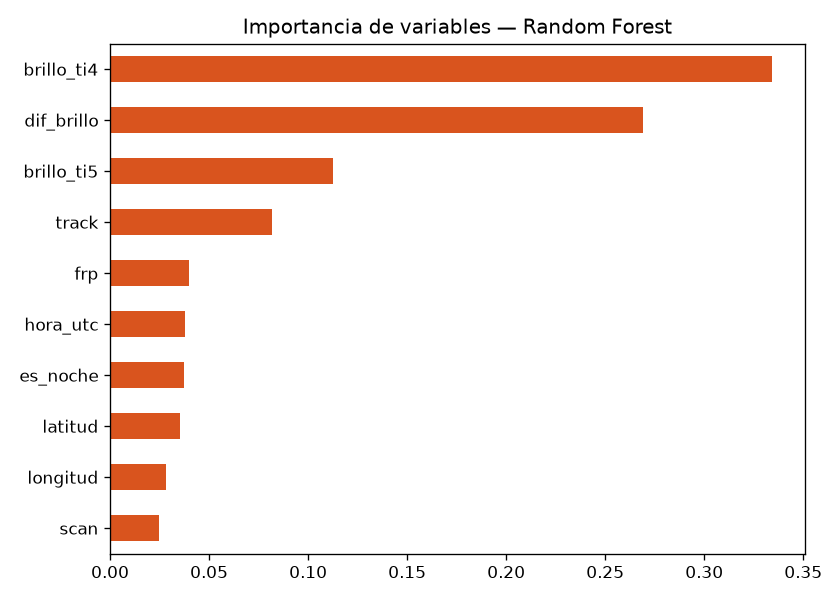
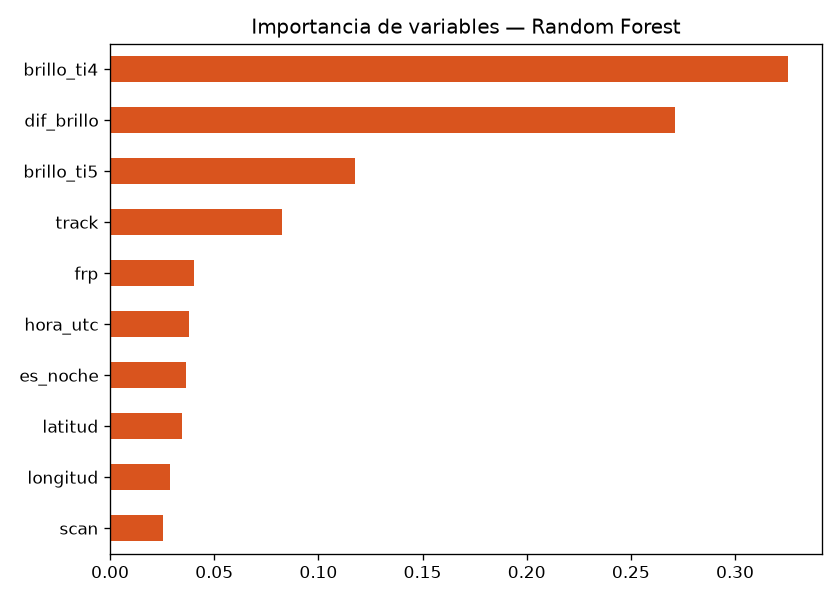
Actualiza métricas y figuras con la última ejecución del DAG

diff --git a/docs/reporte_final.md b/docs/reporte_final.md
@@ -58,7 +58,7 @@ El proyecto tiene dos objetivos:
 | **Gold** | Variables derivadas (`dif_brillo = I4 − I5`, `hora_utc`, `es_noche`, celda de 1° × 1°, `en_region_interes`) y resumen diario por celda (número de detecciones, FRP total, medio y máximo, % de confianza alta). | `src/transform/gold_data.py` |
 | **Almacén** | SQLite con modelo en estrella: `fact_detecciones`, `dim_fecha` y `agg_diario_celda`, con índices por fecha y celda. | `src/load/load_datawarehouse.py` |
 
-**Prueba de idempotencia e integración de fuentes:** el DAG corrió 5 veces. En las 4 primeras (feed público) Bronze acumuló 4 snapshots de 61.689 filas y Silver se mantuvo en **61.689 detecciones únicas**: volver a ejecutar el pipeline no infla los datos. En la quinta se activó la API, que aportó 35.958 filas de los últimos 5 días. Silver pasó a **64.515** detecciones únicas: solo se agregaron las detecciones realmente nuevas (≈ 282 mil filas en Bronze → 64.515 en Silver).
+**Prueba de idempotencia e integración de fuentes:** el DAG corrió 6 veces. En las 4 primeras (feed público) Bronze acumuló 4 snapshots de 61.689 filas y Silver se mantuvo en **61.689 detecciones únicas**: volver a ejecutar el pipeline no infla los datos. En la quinta se activó la API, que aportó 35.958 filas de los últimos 5 días. Silver pasó a **64.515** detecciones únicas: solo se agregaron las detecciones realmente nuevas. Una sexta ejecución con la API trajo las mismas 35.958 filas y Silver no cambió (≈ 318 mil filas en Bronze → 64.515 en Silver).
 
 **Partición para el modelo:** 80/20 estratificada con `random_state=42`, es decir, 51.612 detecciones para entrenamiento y 12.903 para prueba. El escalado va dentro de un `Pipeline`, sin fuga de información.
 
@@ -77,31 +77,33 @@ El proyecto tiene dos objetivos:
 
 | Modelo | Accuracy | F1 macro | CV F1 macro (3 folds) |
 |---|---|---|---|
-| Regresión logística | 0,702 | 0,690 | 0,693 ± 0,002 |
-| **Random Forest** | **0,975** | **0,935** | **0,936 ± 0,002** |
+| Regresión logística | 0,702 | 0,695 | 0,692 ± 0,003 |
+| **Random Forest** | **0,972** | **0,931** | **0,937 ± 0,001** |
 
 ### Métricas por clase (precisión / recall / F1)
 
 | Clase | Regresión logística | Random Forest |
 |---|---|---|
-| baja | 0,18 / 0,87 / 0,30 | 0,79 / 0,90 / **0,84** |
-| nominal | 0,99 / 0,68 / 0,80 | 0,99 / 0,98 / **0,99** |
-| alta | 0,95 / 0,99 / 0,97 | 0,98 / 0,98 / **0,98** |
+| baja | 0,18 / 0,88 / 0,30 | 0,77 / 0,89 / **0,82** |
+| nominal | 0,99 / 0,67 / 0,80 | 0,99 / 0,98 / **0,99** |
+| alta | 0,97 / 1,00 / 0,98 | 0,98 / 0,99 / **0,99** |
+
+> **Variabilidad entre ejecuciones:** con los mismos 64.515 registros, el F1 macro del Random Forest osciló entre 0,931 y 0,935 en distintas ejecuciones del DAG. La causa es que el orden de las filas de Silver no es fijo cuando varias detecciones comparten fecha y hora, y eso cambia la partición train/test. La validación cruzada (0,937 ± 0,001) es la referencia más estable. Una mejora pendiente es ordenar Silver por `id_deteccion` para que cada ejecución sea exactamente reproducible.
 
 ![Matrices de confusión](../incendios_etl/outputs/reports/figures/matrices_confusion.png)
 
 **Análisis de errores:**
 
-- **Regresión logística:** clasifica 3.729 detecciones nominales como "baja", lo que da una precisión de apenas 0,18 en esa clase. La frontera entre baja y nominal **no es lineal**: la confianza baja se concentra en una banda estrecha de `dif_brillo` (≈ 25–30 K) dentro de la nube nominal.
-- **Random Forest:** reduce esa confusión a 218 casos. Los errores restantes son casi todos **baja ↔ nominal** de día. La clase alta se acierta en el 98 % de los casos.
+- **Regresión logística:** clasifica 3.732 detecciones nominales como "baja", lo que da una precisión de apenas 0,18 en esa clase. La frontera entre baja y nominal **no es lineal**: la confianza baja se concentra en una banda estrecha de `dif_brillo` (≈ 25–30 K) dentro de la nube nominal.
+- **Random Forest:** reduce esa confusión a 244 casos. Los errores restantes son casi todos **baja ↔ nominal** de día. La clase alta se acierta en el 99 % de los casos.
 
 ![Importancia de variables](../incendios_etl/outputs/reports/figures/importancia_variables.png)
 
-Las variables más útiles son `brillo_ti4` (0,33), `dif_brillo` (0,27) y `brillo_ti5` (0,11). Las variables geográficas aportan poco (< 0,04 cada una).
+Las variables más útiles son `brillo_ti4` (0,33), `dif_brillo` (0,27) y `brillo_ti5` (0,12). Las variables geográficas aportan poco (< 0,04 cada una).
 
 ### Decisión
 
-El Random Forest supera al baseline por **+0,245 de F1 macro**, muy por encima del margen mínimo de 0,01. **Se recomienda el Random Forest.** Es el resultado opuesto al Laboratorio 1, donde el baseline empató con el modelo complejo. Aquí la relación entre variables y clase es claramente no lineal, y la complejidad adicional sí se justifica.
+El Random Forest supera al baseline por **+0,236 de F1 macro**, muy por encima del margen mínimo de 0,01. **Se recomienda el Random Forest.** Es el resultado opuesto al Laboratorio 1, donde el baseline empató con el modelo complejo. Aquí la relación entre variables y clase es claramente no lineal, y la complejidad adicional sí se justifica.
 
 ### Interpretación honesta
 
@@ -124,6 +126,7 @@ El nivel de confianza no es una etiqueta independiente, porque **lo calcula el p
 | `scheduled__2026-11-14T06:00:00` | programada | success |
 | `manual__2026-11-14T19:50:48` | manual | success |
 | `manual__2026-11-14T20:42:57` | manual, primera con API (MAP_KEY) | success |
+| `manual__2026-11-14T20:57:34` | manual, lanzada por el script de arranque | success |
 
 - Los modelos se guardan con `joblib` en `incendios_etl/outputs/models/` y las métricas en `outputs/reports/metricas_modelos.json`.
 - **Pruebas:** `tests/test_pipeline.py` tiene 6 pruebas, todas aprobadas. Cubren la limpieza, la deduplicación entre snapshots, la agregación Gold, la carga al almacén, la construcción de URL API/feed y el rechazo de respuestas inválidas de la API.

diff --git a/README.md b/README.md
@@ -92,10 +92,10 @@ El pipeline usa la **API de área de FIRMS**, que requiere una clave gratuita (*
 |---|---|
 | Fuentes integradas | API de área de FIRMS (con MAP_KEY) + feed público de 7 días |
 | Detecciones únicas (7–14 nov 2026) | **64.515** en Sudamérica, de ellas 1.805 en Colombia |
-| Ejecuciones del DAG | 5 (4 manuales + 1 programada), todas `success` |
+| Ejecuciones del DAG | 6 (5 manuales + 1 programada), todas `success` |
 | Almacén | `fact_detecciones` 64.515 · `dim_fecha` 8 · `agg_diario_celda` 4.737 |
-| Regresión logística (baseline) | F1 macro **0,690** · accuracy 0,702 |
-| Random Forest | F1 macro **0,935** · accuracy 0,975 · CV 0,936 ± 0,002 |
+| Regresión logística (baseline) | F1 macro **0,695** · accuracy 0,702 |
+| Random Forest | F1 macro **0,931** · accuracy 0,972 · CV 0,937 ± 0,001 |
 | Modelo recomendado | **Random Forest** (+0,24 F1, supera el margen mínimo de 0,01) |
 
 El análisis completo está en [docs/reporte_final.md](docs/reporte_final.md).
